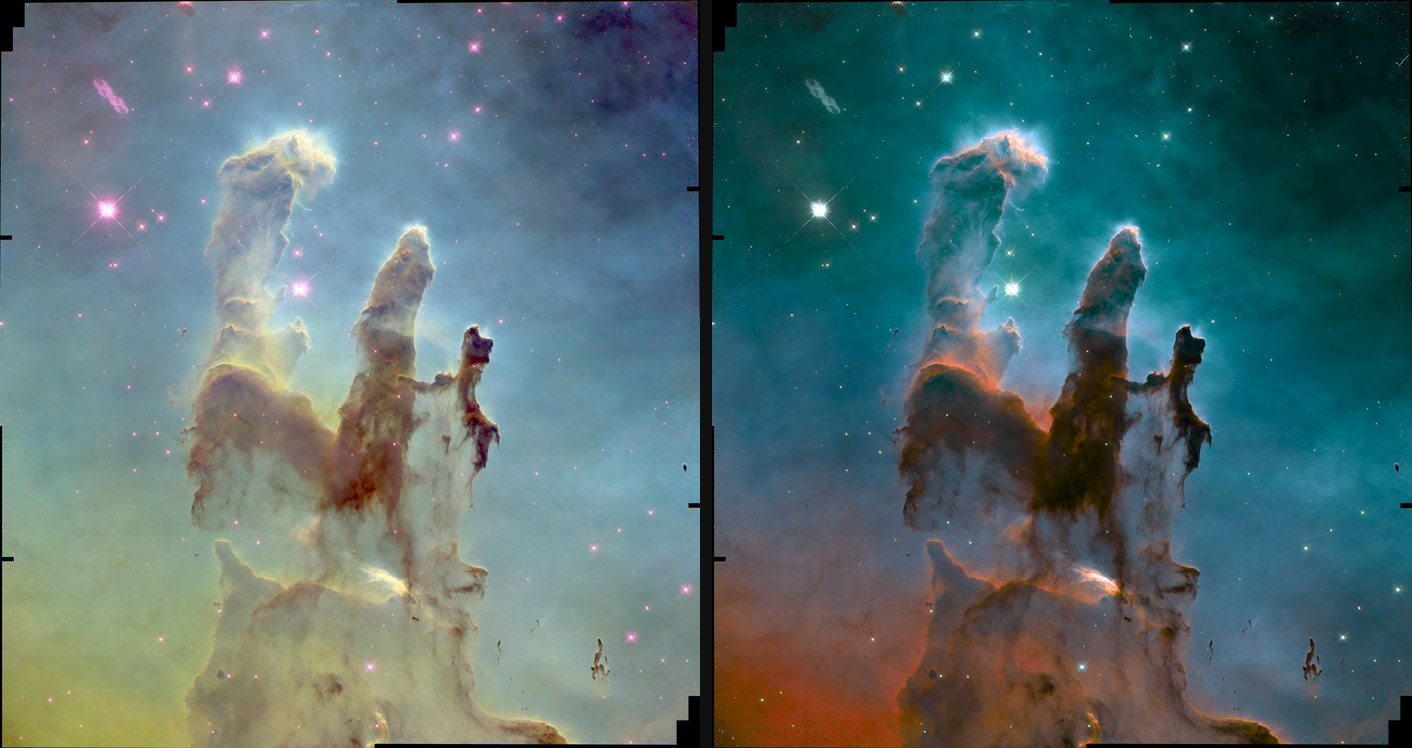
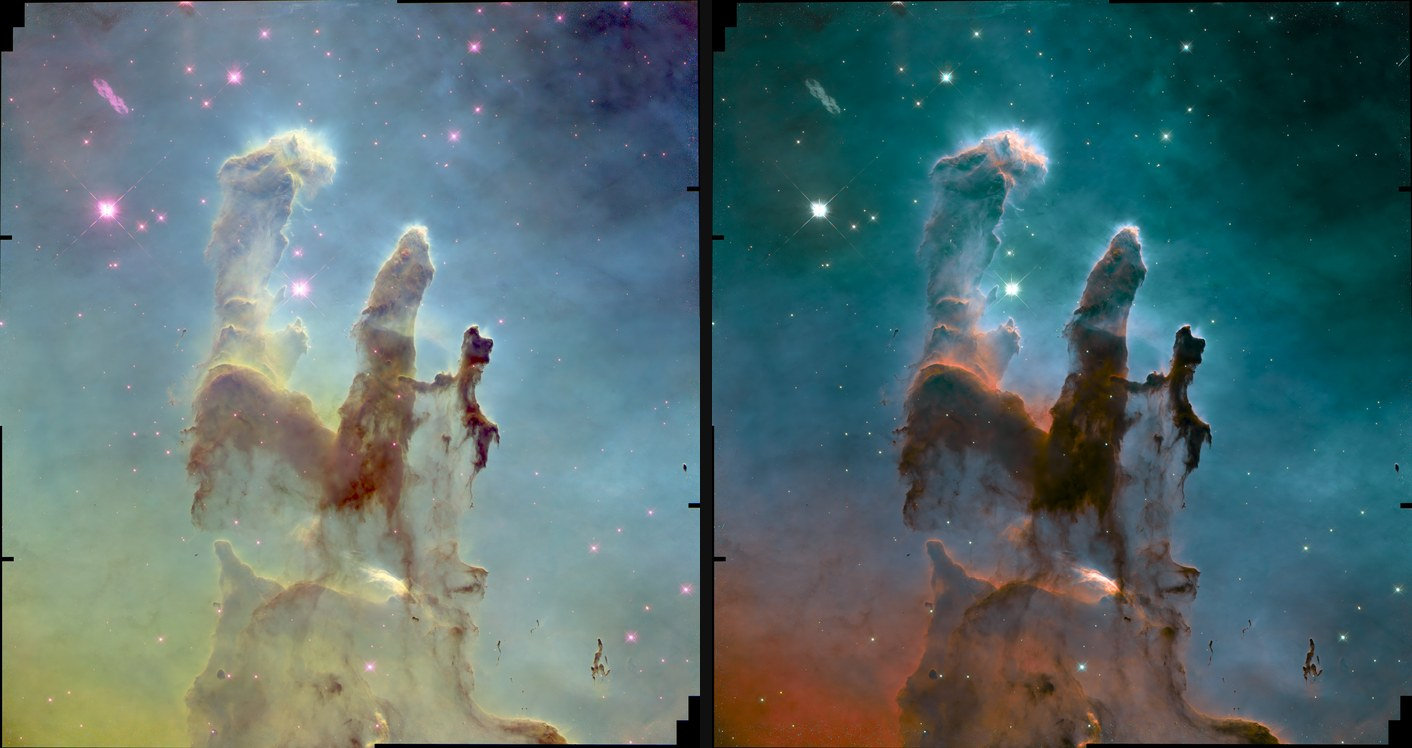
Saturation option; M16 picture at saturation 0.9
The Python tool gains --saturation and the PixInsight script a Saturation % row,
matching the stacker's colorSat. The M16 comparison now uses 0.9.

diff --git a/pixinsight/AstroSHOModifiedPalette.js b/pixinsight/AstroSHOModifiedPalette.js
@@ -301,7 +301,7 @@ function AutoGain(f, bad, ww, hh, brightness, log) {
 }
 
 // f prepared by Prepare(): returns display red, green, blue, 0 to 1
-function Colour(f, bad, ww, hh, threshold, gain, log) {
+function Colour(f, bad, ww, hh, threshold, gain, saturation, log) {
    var n = ww*hh, nw = Math.floor((ww - 1)/NOISE_BLOCK), nh = Math.floor(hh/NOISE_BLOCK), knorm = threshold/(2*COLOUR_R + 1);
    var i, l, w, h;
    var g0 = SmoothNoise(NoiseGrid(f[0], ww, nw, nh), nw, nh), g1 = SmoothNoise(NoiseGrid(f[1], ww, nw, nh), nw, nh), g2 = SmoothNoise(NoiseGrid(f[2], ww, nw, nh), nw, nh);
@@ -324,8 +324,8 @@ function Colour(f, bad, ww, hh, threshold, gain, log) {
 
    var eq = GasEqualise(m, gall, nw, nh, ww, hh, bad);
    var d2r = Math.PI/180;
-   var pushA = [CHROMA*RED_PUSH*Math.cos(HUE_BLUE*d2r), CHROMA*RED_PUSH*Math.cos(HUE_RED*d2r)];
-   var pushB = [CHROMA*RED_PUSH*Math.sin(HUE_BLUE*d2r), CHROMA*RED_PUSH*Math.sin(HUE_RED*d2r)];
+   var pushA = [CHROMA*saturation*RED_PUSH*Math.cos(HUE_BLUE*d2r), CHROMA*saturation*RED_PUSH*Math.cos(HUE_RED*d2r)];
+   var pushB = [CHROMA*saturation*RED_PUSH*Math.sin(HUE_BLUE*d2r), CHROMA*saturation*RED_PUSH*Math.sin(HUE_RED*d2r)];
    var r = new Float32Array(n), g = new Float32Array(n), b = new Float32Array(n), dg = 1/2.2, lc = 2.2/3;
 
    for (h = 0; h < hh; h++) {
@@ -354,7 +354,7 @@ function Colour(f, bad, ww, hh, threshold, gain, log) {
          else if (u >= EQ_BINS) u = 1;
          else { iu = Math.floor(u); u = eq[side][iu] + (u - iu)*(eq[side][iu + 1] - eq[side][iu]); }
          var ends = side ? HUE_CYAN : HUE_GOLD, hue = (ends[0] + (ends[1] - ends[0])*u)*d2r;
-         var A = Math.abs(x)*CHROMA*Math.cos(hue), B = Math.abs(x)*CHROMA*Math.sin(hue);
+         var A = Math.abs(x)*CHROMA*saturation*Math.cos(hue), B = Math.abs(x)*CHROMA*saturation*Math.sin(hue);
 
          // The red to blue push
          var red = tt > 0 ? 1 : 0, at = Math.abs(tt);
@@ -421,7 +421,7 @@ function Check(views) {
    return null;
 }
 
-function Run(views, balance, lift, threshold, brightness) {
+function Run(views, balance, lift, saturation, threshold, brightness) {
    var ww = views[0].image.width, hh = views[0].image.height, f = [], l, rect = new Rect(0, 0, ww, hh);
    for (l = 0; l < 3; l++) {
       f[l] = new Float32Array(ww*hh);
@@ -433,7 +433,7 @@ function Run(views, balance, lift, threshold, brightness) {
       ShowError("These images look empty: nothing stands above the sky.");
       return;
    }
-   var out = Colour(f, bad, ww, hh, threshold, gain, Log);
+   var out = Colour(f, bad, ww, hh, threshold, gain, saturation, Log);
    f = null;
    var win = new ImageWindow(ww, hh, 3, 32, true, true, "SHO_modified");
    win.mainView.beginProcess();
@@ -498,6 +498,7 @@ function main() {
    var sii = ImageRow(dlg, "SII:", ["sii", "s2"]);
    var balance = NumberRow(dlg, "Colour balance:", -100, 100, 8, "Higher is more gold, negative is more cyan");
    var lift = NumberRow(dlg, "Lift blacks %:", 0, 100, 0, "Lifts dark areas by this percent of the median brightness");
+   var saturation = NumberRow(dlg, "Saturation %:", 0, 200, 100, "Percent of the normal colour");
    var threshold = NumberRow(dlg, "Colour threshold:", 0, 1000, 60, "Higher means less colour in faint, noisy areas");
    var brightness = NumberRow(dlg, "Brightness %:", 10, 1000, 100, "Percent of the automatic brightness");
 
@@ -518,7 +519,7 @@ function main() {
 
    if (dlg.execute()) {
       console.show();
-      Run([ha.currentView, oiii.currentView, sii.currentView], balance.value, lift.value, threshold.value, brightness.value/100);
+      Run([ha.currentView, oiii.currentView, sii.currentView], balance.value, lift.value, saturation.value/100, threshold.value, brightness.value/100);
    }
 }
 

diff --git a/sho_palette.py b/sho_palette.py
@@ -222,7 +222,7 @@ def Prepare(f, balance, lift=0):
     return bad
 
 
-def Colour(f, bad, threshold, gain, gamma):
+def Colour(f, bad, threshold, gain, gamma, saturation=1):
     """f prepared by Prepare(): returns display red, green, blue, 0 to 1, as float32."""
     hh, ww = f[0].shape
     nw, nh = (ww - 1)//NOISE_BLOCK, hh//NOISE_BLOCK
@@ -236,7 +236,7 @@ def Colour(f, bad, threshold, gain, gamma):
 
     d2r = np.pi/180
     push = np.array([[np.cos(HUE_BLUE*d2r), np.sin(HUE_BLUE*d2r)],
-                     [np.cos(HUE_RED*d2r), np.sin(HUE_RED*d2r)]], dtype=np.float32)*CHROMA*RED_PUSH
+                     [np.cos(HUE_RED*d2r), np.sin(HUE_RED*d2r)]], dtype=np.float32)*CHROMA*saturation*RED_PUSH
     fx = np.arange(ww, dtype=np.float32)*(nw - 1)/max(ww - 1, 1)
     gx = fx.astype(np.int32)
     gx1 = np.minimum(gx + 1, nw - 1)
@@ -275,8 +275,8 @@ def Colour(f, bad, threshold, gain, gamma):
         lo = np.where(side, HUE_CYAN[0], HUE_GOLD[0])
         hi = np.where(side, HUE_CYAN[1], HUE_GOLD[1])
         hue = (lo + (hi - lo)*u)*d2r
-        a = np.abs(x)*CHROMA*np.cos(hue)
-        b = np.abs(x)*CHROMA*np.sin(hue)
+        a = np.abs(x)*CHROMA*saturation*np.cos(hue)
+        b = np.abs(x)*CHROMA*saturation*np.sin(hue)
 
         # The red to blue push
         red = (t > 0).astype(np.int32)
@@ -366,6 +366,8 @@ def main():
                     help='colour balance, + towards gold, - towards cyan (default 8)')
     ap.add_argument('--lift', type=float, default=0,
                     help='lift the blacks, percent of the median brightness (default 0)')
+    ap.add_argument('--saturation', type=float, default=1,
+                    help='multiplies the colour, for example 0.9 (default 1)')
     ap.add_argument('--threshold', type=float, default=60,
                     help='higher means less colour in the faint noisy areas (default 60)')
     ap.add_argument('--brightness', type=float, default=1,
@@ -400,7 +402,7 @@ def main():
     bad = Prepare(f, args.balance, args.lift)
     gain = AutoGain(f, bad, args.brightness)
     print('Making the colours')
-    rgb = Colour(f, bad, args.threshold, gain, GAMMA)
+    rgb = Colour(f, bad, args.threshold, gain, GAMMA, args.saturation)
     tifffile.imwrite(out, (rgb*65535 + .5).astype(np.uint16), photometric='rgb')
     print('Wrote %s' % out)
 

diff --git a/README.md b/README.md
@@ -5,7 +5,7 @@ without star removal, green removal or hand tuning.
 
 ![M16: plain SHO on the left, this palette on the right](docs/m16-compare.jpg)
 
-*M16, Hubble data, the whole mosaic from 48 exposures with its real edges. The streak at top left is an optical ghost in the camera. Left: plain SHO. Right: this palette, with balance 12, blacks lifted 15% and the brightness set by hand.*
+*M16, Hubble data, the whole mosaic from 48 exposures with its real edges. The streak at top left is an optical ghost in the camera. Left: plain SHO. Right: this palette, with balance 12, blacks lifted 15%, saturation 0.9 and the brightness set by hand.*
 
 ## Use it
 
@@ -51,6 +51,7 @@ You shouldn't need these to begin with.
 | `-o name.tif` | `sho-palette.tif` beside the Ha image | Output file |
 | `--balance` | 8 | Colour balance: higher is more gold, negative is more cyan |
 | `--lift` | 0 | Lifts dark areas by this percent of the median brightness, for example 15 |
+| `--saturation` | 1 | Multiplies the colour, for example 0.9 |
 | `--threshold` | 60 | Higher means less colour in faint, noisy areas |
 | `--brightness` | 1 | Multiplies the automatic brightness, for example 1.5 or 0.7 |
 
